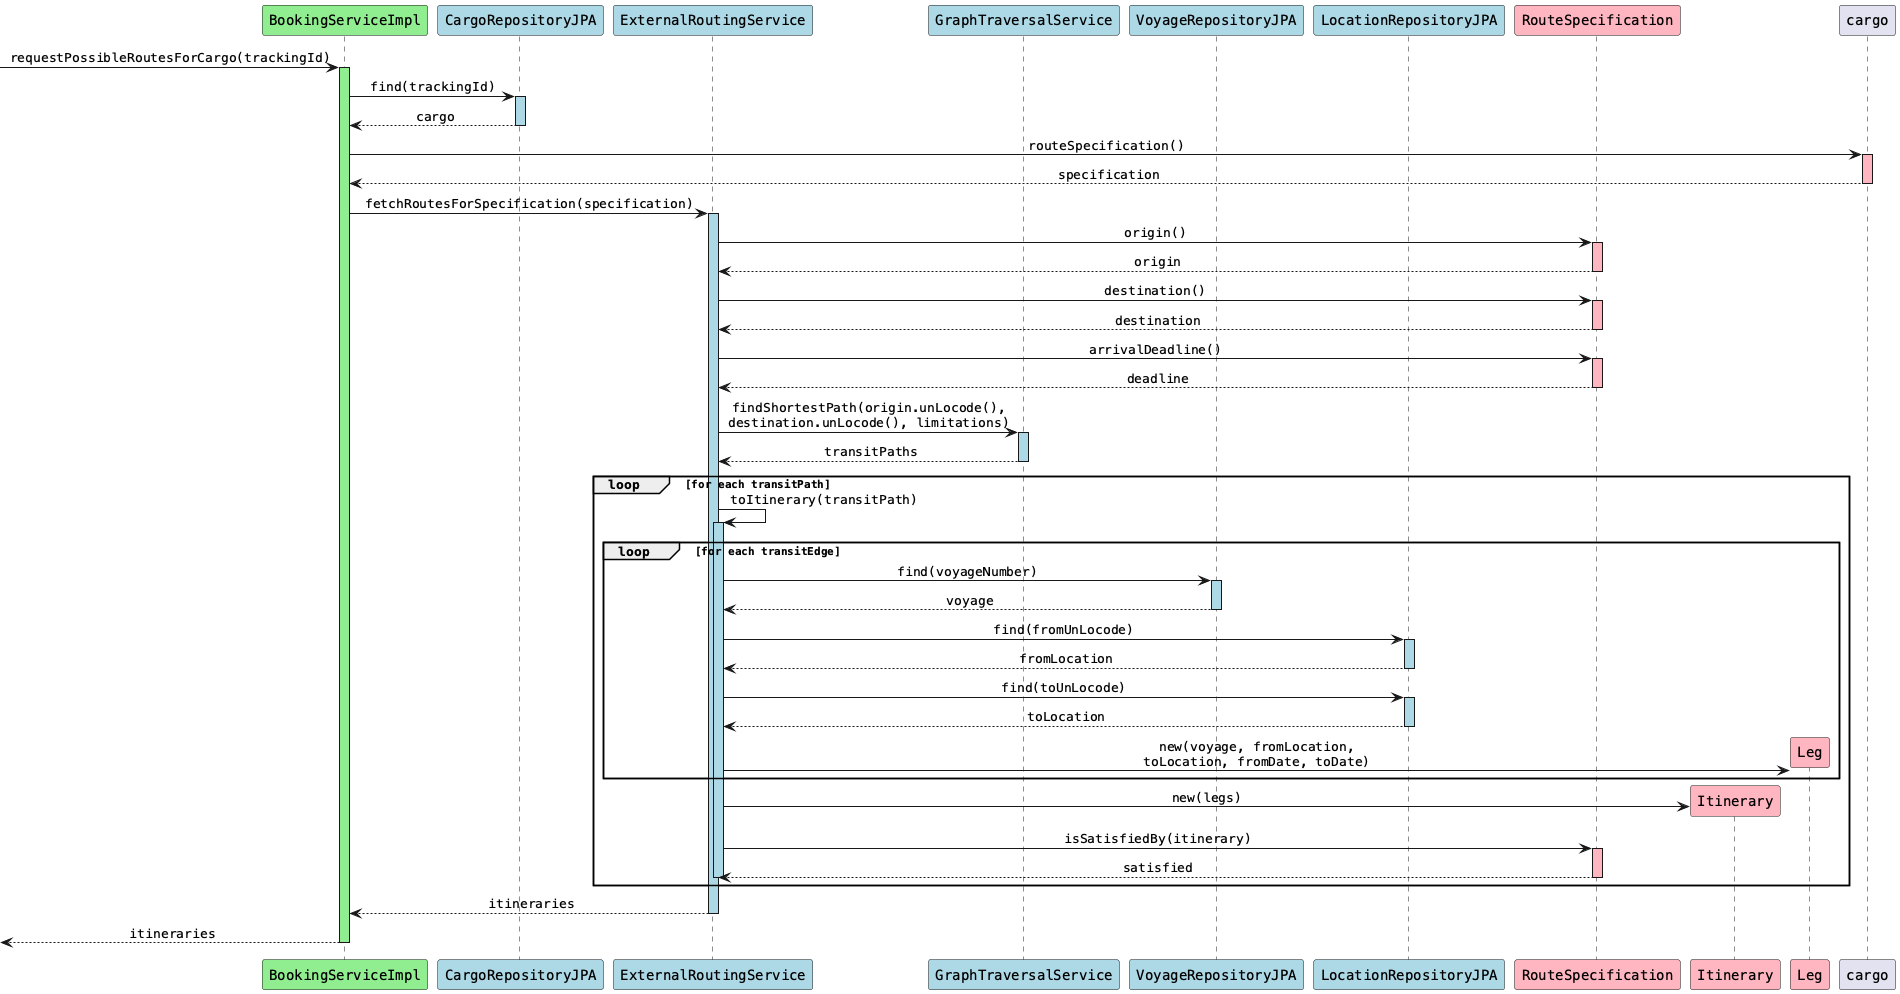
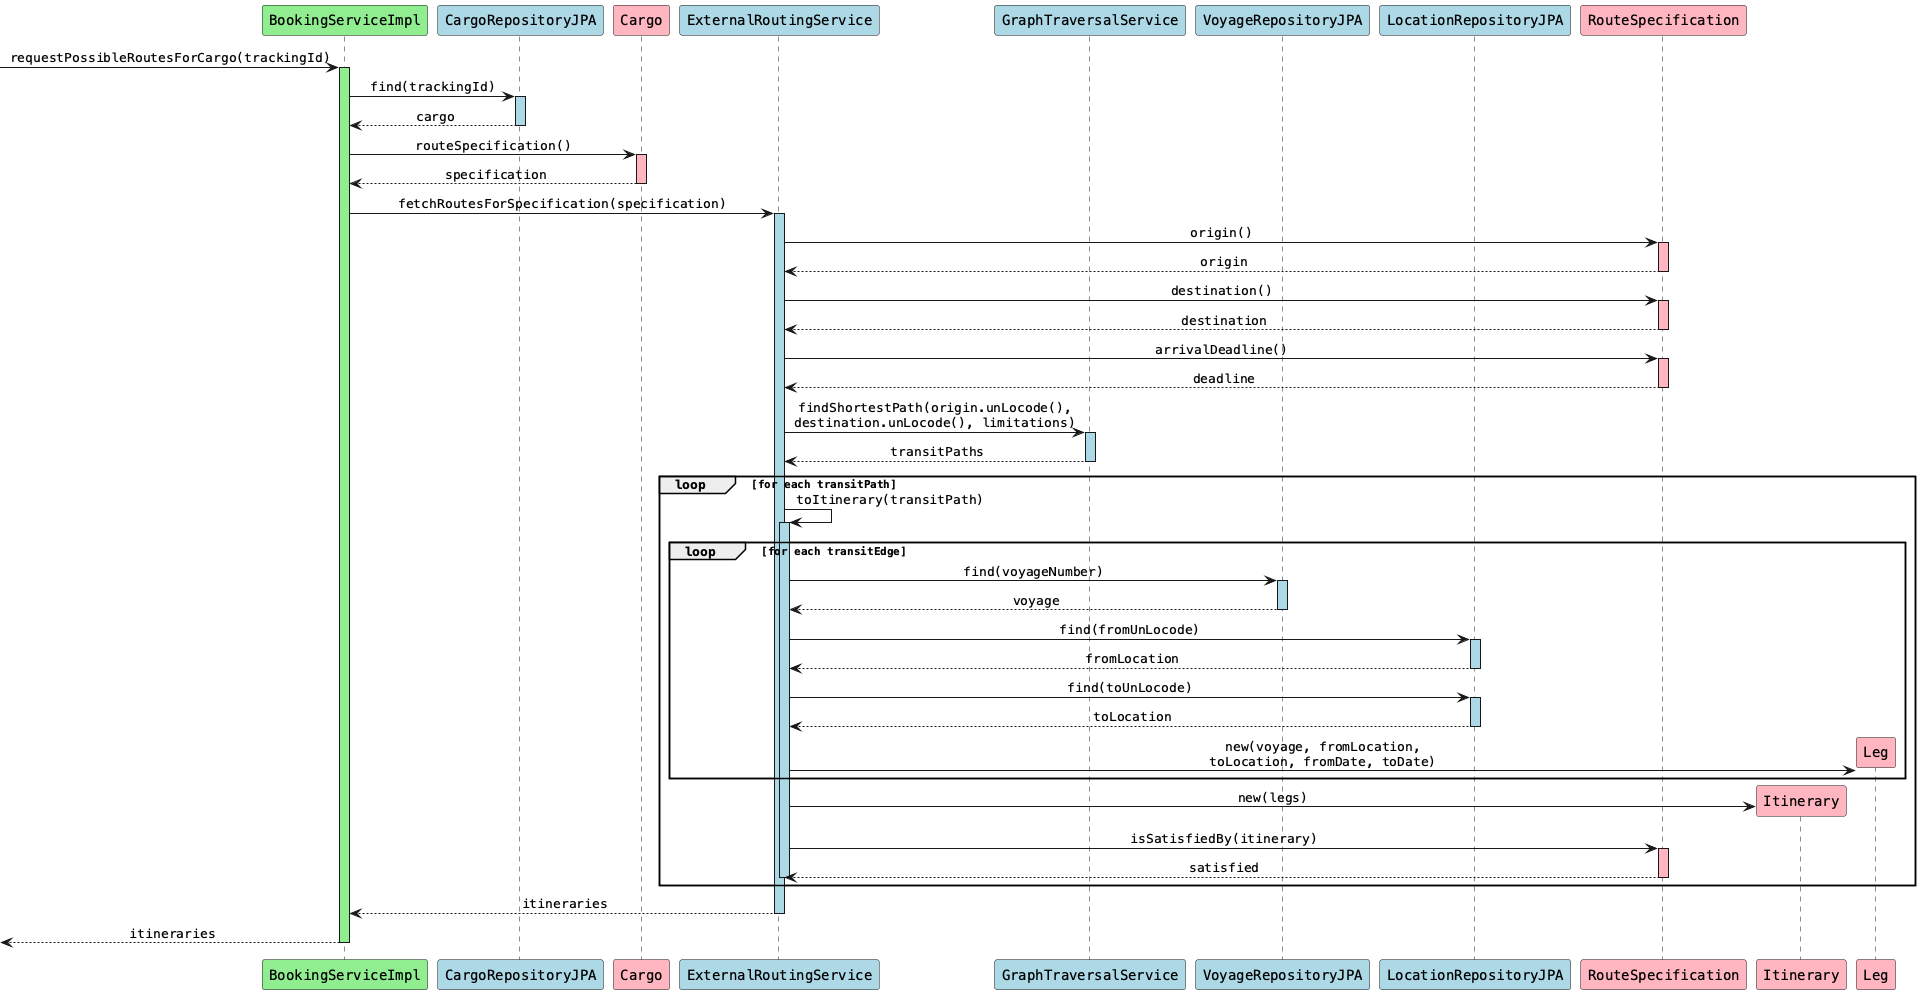
Cursor: correct mistake

diff --git a/Cursor.md b/Cursor.md
@@ -1724,3 +1724,114 @@ I've updated the `BookingServiceImpl_requestPossibleRoutesForCargo` diagram to s
 
 The diagram now shows the complete translation process between the domain model and the external routing service's API, maintaining the color scheme to clearly show which layer each component belongs to.
 
+* Correct mistake
+
+  In the `BookingServiceImpl_requestPossibleRoutesForCargo.puml`, `cargo` is wrongly shown in grey with a lowercase `c`.
+
+Ah yes, you're right. I need to properly declare the `Cargo` participant and use the correct color. Let me fix that:
+
+```plantuml:src/site/resources/diagrams/BookingServiceImpl_requestPossibleRoutesForCargo.puml
+@startuml
+skinparam monochrome false
+skinparam defaultFontName Courier
+skinparam sequenceMessageAlign center
+
+participant "BookingServiceImpl" as bs #lightgreen
+participant "CargoRepositoryJPA" as cr #lightblue
+participant "Cargo" as c #lightpink
+participant "ExternalRoutingService" as rs #lightblue
+participant "GraphTraversalService" as gts #lightblue
+participant "VoyageRepositoryJPA" as vr #lightblue
+participant "LocationRepositoryJPA" as lr #lightblue
+participant "RouteSpecification" as rspec #lightpink
+participant "Itinerary" as itin #lightpink
+participant "Leg" as leg #lightpink
+
+[-> bs: requestPossibleRoutesForCargo(trackingId)
+activate bs #lightgreen
+
+bs -> cr: find(trackingId)
+activate cr #lightblue
+cr --> bs: cargo
+deactivate cr
+
+bs -> c: routeSpecification()
+activate c #lightpink
+c --> bs: specification
+deactivate c
+
+bs -> rs: fetchRoutesForSpecification(specification)
+activate rs #lightblue
+
+rs -> rspec: origin()
+activate rspec #lightpink
+rspec --> rs: origin
+deactivate rspec
+
+rs -> rspec: destination()
+activate rspec #lightpink
+rspec --> rs: destination
+deactivate rspec
+
+rs -> rspec: arrivalDeadline()
+activate rspec #lightpink
+rspec --> rs: deadline
+deactivate rspec
+
+rs -> gts: findShortestPath(origin.unLocode(),\ndestination.unLocode(), limitations)
+activate gts #lightblue
+gts --> rs: transitPaths
+deactivate gts
+
+loop for each transitPath
+    rs -> rs: toItinerary(transitPath)
+    activate rs #lightblue
+    
+    loop for each transitEdge
+        rs -> vr: find(voyageNumber)
+        activate vr #lightblue
+        vr --> rs: voyage
+        deactivate vr
+
+        rs -> lr: find(fromUnLocode)
+        activate lr #lightblue
+        lr --> rs: fromLocation
+        deactivate lr
+
+        rs -> lr: find(toUnLocode)
+        activate lr #lightblue
+        lr --> rs: toLocation
+        deactivate lr
+
+        create leg
+        rs -> leg: new(voyage, fromLocation,\ntoLocation, fromDate, toDate)
+    end
+
+    create itin
+    rs -> itin: new(legs)
+    
+    rs -> rspec: isSatisfiedBy(itinerary)
+    activate rspec #lightpink
+    rspec --> rs: satisfied
+    deactivate rspec
+    deactivate rs
+end
+
+rs --> bs: itineraries
+deactivate rs
+
+[<-- bs: itineraries
+deactivate bs
+
+@enduml
+```
+Now let's regenerate both PNG and SVG files:
+
+```bash
+plantuml -tsvg *.puml && plantuml -tpng -scale 2 *.puml
+```
+I've fixed the issue by:
+1. Adding `Cargo` as a proper participant with the lightpink color (domain model)
+2. Updating the message calls to use the participant alias `c` instead of the undeclared `cargo`
+
+The diagram now correctly shows `Cargo` in lightpink color like the other domain model classes.
